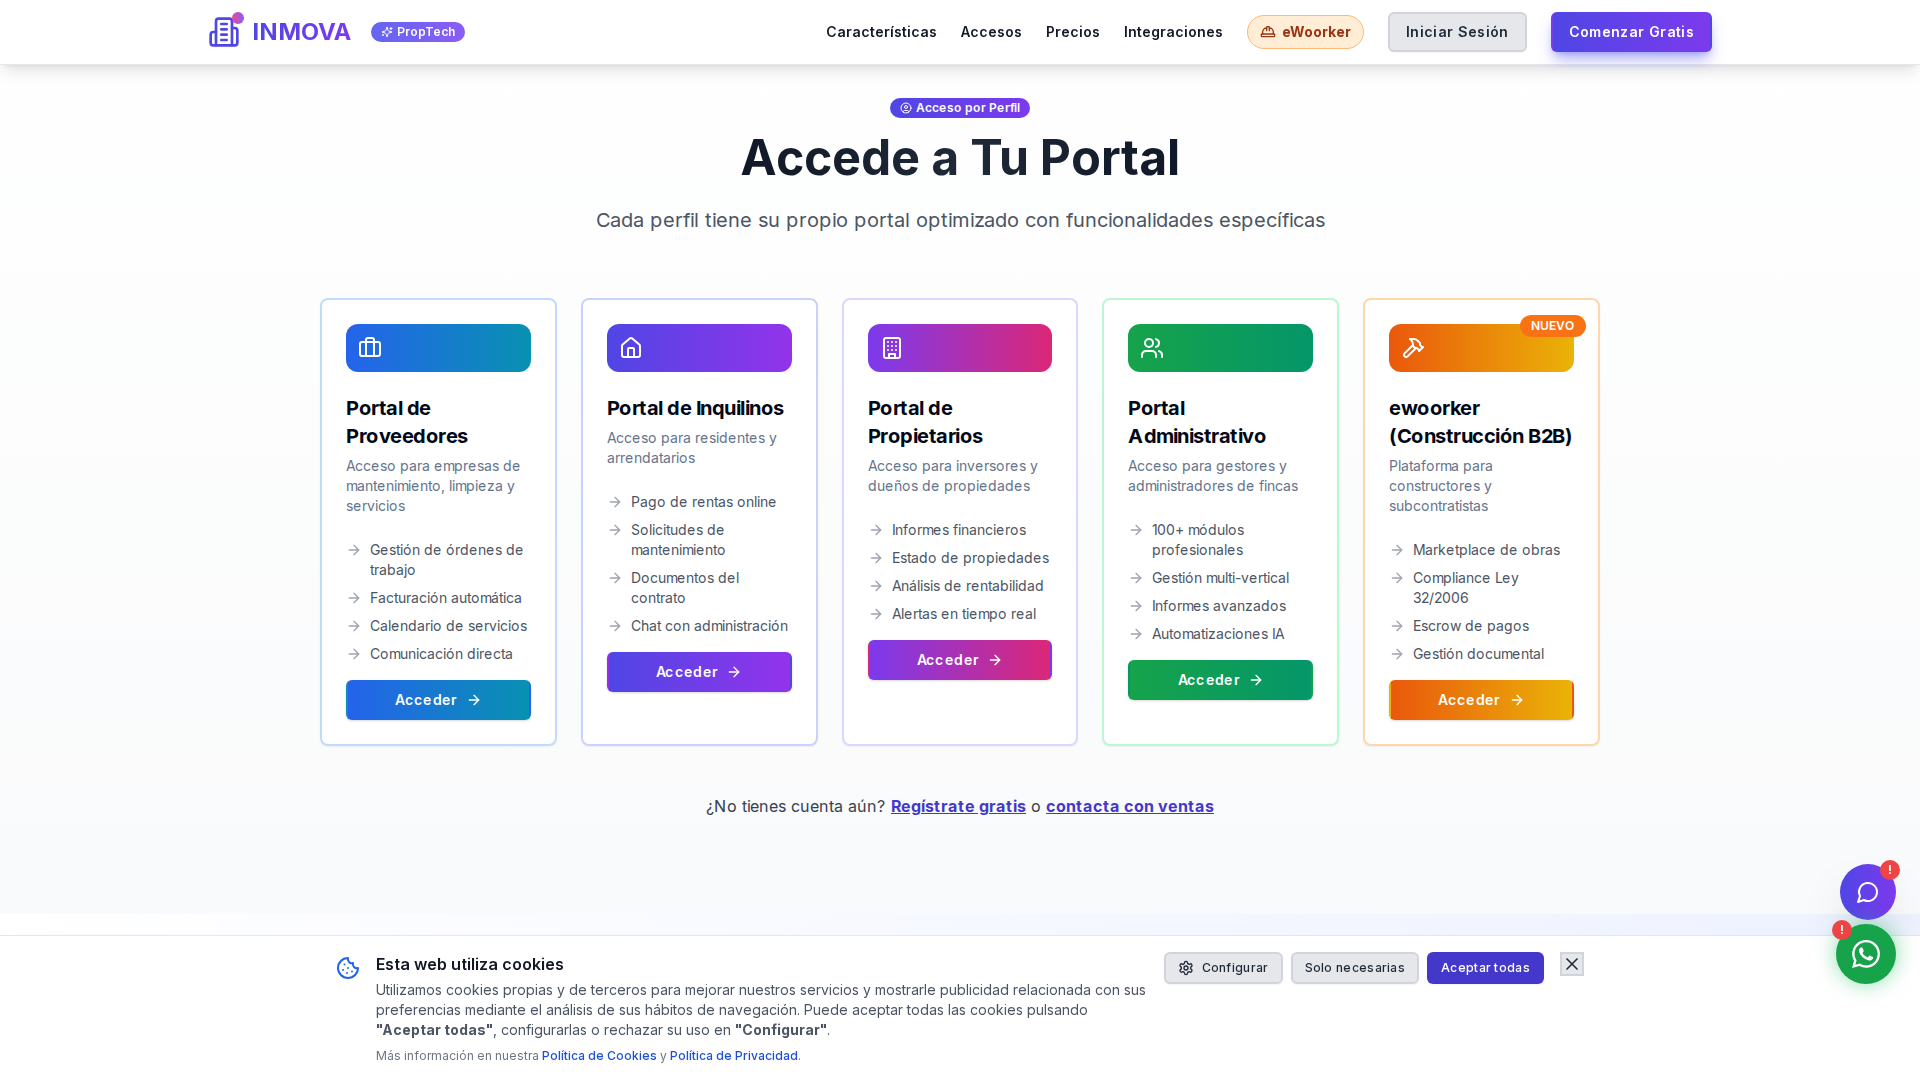
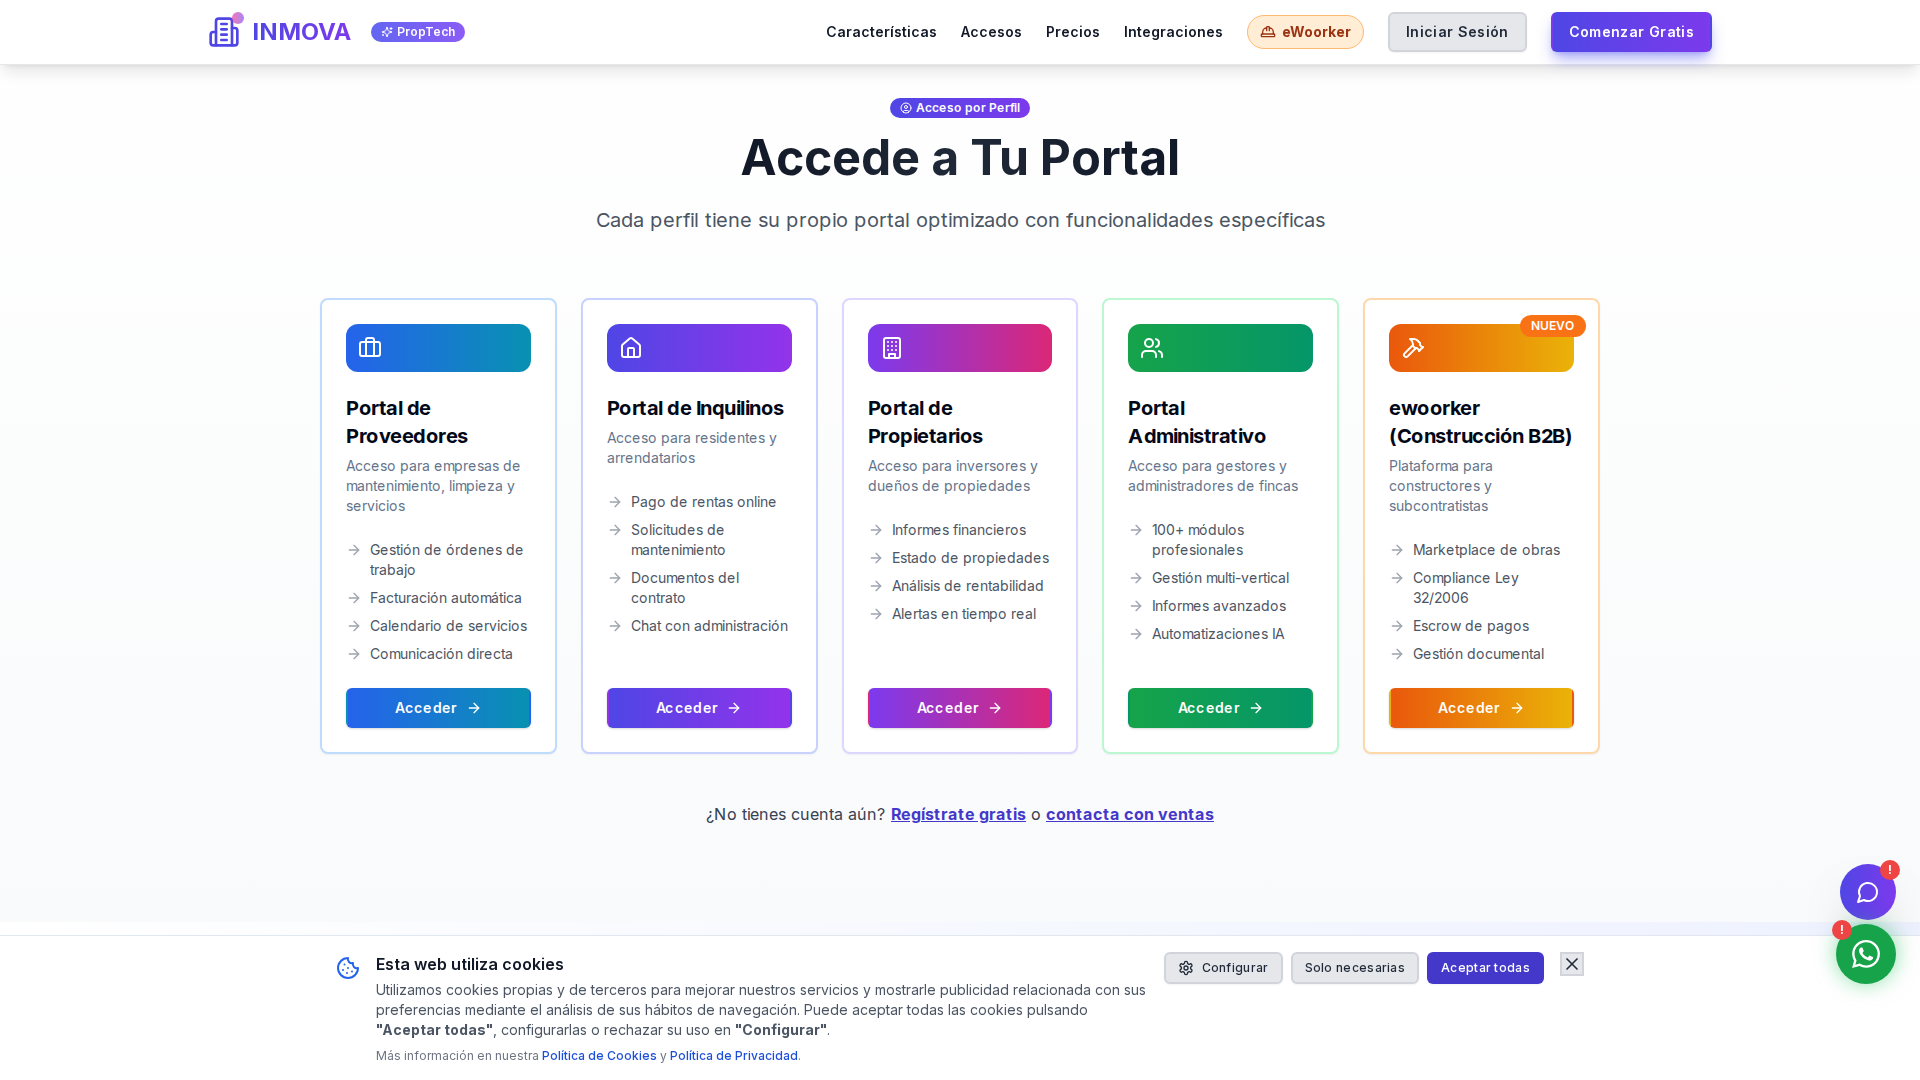
fix: remover scale-105 que afectaba alineación de botones

diff --git a/scripts/check-landing-alignment.ts b/scripts/check-landing-alignment.ts
@@ -1,15 +1,28 @@
 import { chromium, Browser, Page } from '@playwright/test';
 
-const BASE_URL = 'https://inmovaapp.com';
+// Usar IP directa para evitar cache de Cloudflare
+const BASE_URL = 'http://157.180.119.236';
 
 async function checkLandingAlignment() {
   console.log('🔍 Verificando alineación en landing page...\n');
+  console.log('⏰ Timestamp:', new Date().toISOString());
   
   const browser: Browser = await chromium.launch({ headless: true });
   const context = await browser.newContext({
-    viewport: { width: 1920, height: 1080 }
+    viewport: { width: 1920, height: 1080 },
+    bypassCSP: true,
   });
   const page: Page = await context.newPage();
+  
+  // Forzar bypass de cache
+  await page.route('**/*', async (route) => {
+    const headers = {
+      ...route.request().headers(),
+      'Cache-Control': 'no-cache, no-store, must-revalidate',
+      'Pragma': 'no-cache',
+    };
+    await route.continue({ headers });
+  });
 
   try {
     // 1. Verificar sección de portales de acceso

diff --git a/app/landing/precios/page.tsx b/app/landing/precios/page.tsx
@@ -100,7 +100,7 @@ export default function PreciosPage() {
           {planes.map((plan) => (
             <Card 
               key={plan.nombre}
-              className={`relative flex flex-col ${plan.destacado ? 'border-2 border-blue-500 shadow-xl scale-105' : 'border'}`}
+              className={`relative flex flex-col ${plan.destacado ? 'border-2 border-blue-500 shadow-2xl ring-2 ring-blue-500 ring-offset-2' : 'border'}`}
             >
               {plan.destacado && (
                 <Badge className="absolute -top-3 left-1/2 -translate-x-1/2 bg-blue-600">

diff --git a/components/landing/sections/PricingSection.tsx b/components/landing/sections/PricingSection.tsx
@@ -230,7 +230,7 @@ export function PricingSection() {
           {plans.map((plan, i) => (
             <Card key={i} className={`group hover:shadow-2xl transition-all flex flex-col ${
               plan.popular 
-                ? 'border-indigo-500 border-2 shadow-xl relative scale-105' 
+                ? 'border-indigo-500 border-2 shadow-2xl relative ring-2 ring-indigo-500 ring-offset-2' 
                 : 'hover:border-indigo-300 border-2'
             }`}>
               {plan.popular && (
